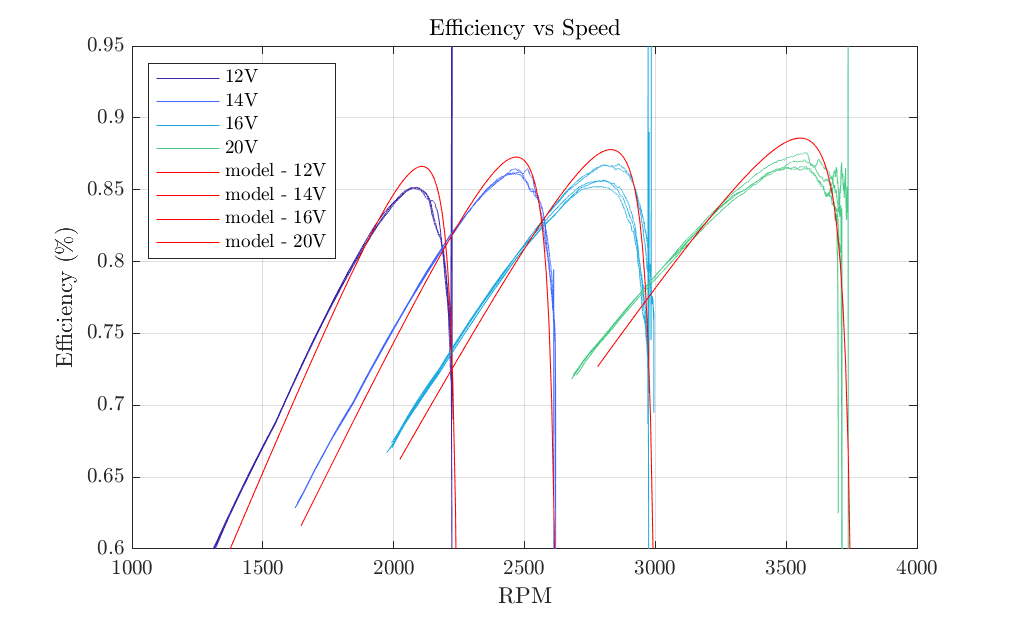
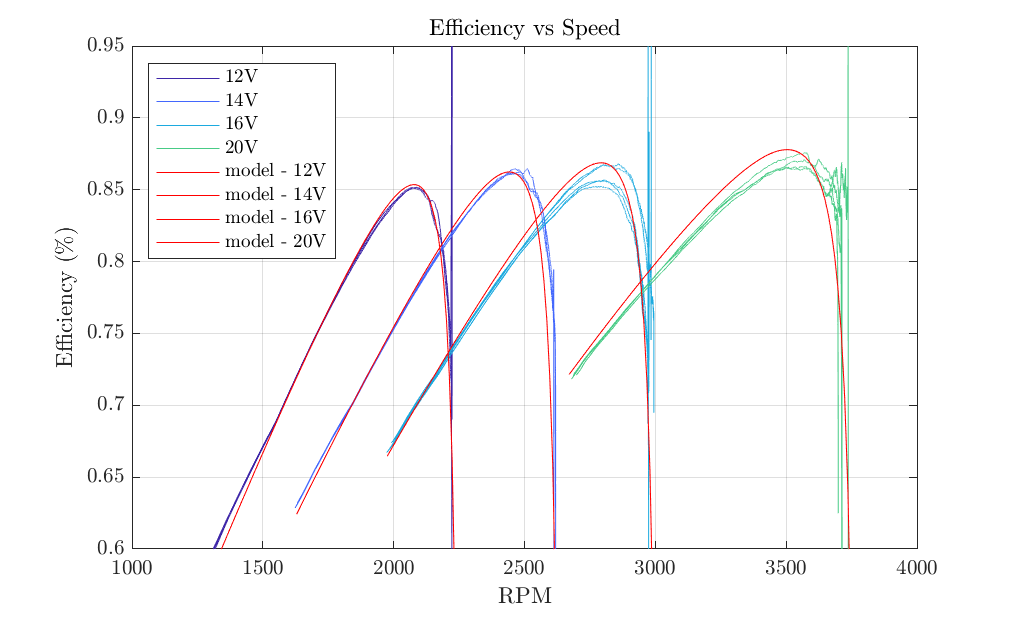
update

diff --git a/DynoData/Koford/2019_jun2/motorModel.m b/DynoData/Koford/2019_jun2/motorModel.m
@@ -1,15 +1,26 @@
 %% process Model
 
 if (exist('p1','var'))
+    delete(p0);
     delete(p1);
     delete(p2);
     delete(p3);
+    delete(p4);
+    delete(p5);
+    delete(p6);
 end
 load ../noLoad/nonElectricalLosses
-% load ../spindown/chain+mag_sketchy
+load ../spindown/chain+mag_sketchy
 % mystery = mean(allMys(allR2>.35,:),1);
-modelKv = mean(allKv);
-modelRs = mean(allRs)*1.1;
+modelKv = mean(allKv) * 1.01 / 1.01;
+modelZs = mean(allRs)*1.1;
+modelLs = 0.160e-3 * 1.2;
+% modelRs = 0.186 * 1.45;
+% modelLs = 0;
+modelLs = 0.160e-3 * 1.75;
+modelRs = mean(allRs) * 0.9;
+modelRs = 0.186 * 1.34;
+% modelRs = 0.186*1.5;
 modelKt = 1./(modelKv*2*pi/60);
 paramSets = table();
 for i = 1:length(allParameters)
@@ -17,6 +28,7 @@ for i = 1:length(allParameters)
     paramSets.Rs(i) = mean(allRs(allChar==i)) * 1.15;
     paramSets.Mys(i,:) = mean(allMys(allChar==i,:),1);
     paramSets.Kt(i) = 1./(paramSets.Kv(i)*2*pi/60);
+    paramSets.VofI(i,:) = mean(allVofI(allChar==i,:),1);
     
 %     fields = fieldnames(allParameters(i));
 %     vals = cellfun(@(f) getfield(allParameters(i),f),fields,'UniformOutput',false);
@@ -25,22 +37,43 @@ for i = 1:length(allParameters)
         paramSets.(field)(i,:) = getfield(allParameters(i),field);
     end
     
-    V = str2num(paramSets.voltage(i,:));
+%     V = str2num(paramSets.voltage(i,:));
     IVals = linspace(0,18,99)';
+    V = polyval(paramSets.VofI(i,:),IVals);
 %     modelRPM = (V - IVals*paramSets.Rs(i)) * paramSets.Kv(i);
 %     modelTorque = IVals * paramSets.Kt(i) * 1;
-%     modelLosses = [IVals.^2*paramSets.Rs(i), polyval(PvsERPM,modelRPM*2)];
-    modelRPM = (V - IVals*modelRs) * modelKv;
-    modelTorque = IVals * modelKt * 1;
-    modelLosses = [IVals.^2*modelRs, polyval(PvsERPM,modelRPM*2)];
+%     modelLosses = [IVals.^2*paramSets.Rs(i), polyval(PvsERPM,modelRPM*2)]; 
+    modelRPM = (V - IVals*modelZs) * modelKv;   
+    modelRsTmp = sqrt(modelRs.^2 + (modelLs*modelRPM*2 / 60 * 2 * pi).^2);
+    modelRPM = (V - IVals.*modelRsTmp) * modelKv;
+    modelRsTmp = sqrt(modelRs.^2 + (modelLs*modelRPM*2 / 60 * 2 * pi).^2);
+    modelRPM = (V - IVals.*modelRsTmp) * modelKv;
+    
+    modelTorque = IVals * modelKt;
+    modelLosses = [IVals.^2.*modelRs, ...           % I2R
+                   polyval(PvsERPM,modelRPM*2), ... % nonelectrical
+                   0.3*ones(size(modelRPM)), ...    % controller
+                   6e-3*modelTorque.^2.*modelRPM, ...% chain
+                   0.3*ones(size(modelRPM)) ...     % chain
+                   ];               
+%     modelLosses = [IVals.^2.*modelRsTmp, polyval(PvsERPM,modelRPM*2), -polyval(CHAIN_LOSSES_POWER_OF_FLYWHEEL_RPM,modelRPM*14/72/2)];
 %     modelLosses = [IVals.^2*paramSets.Rs(i), polyval(paramSets.Mys(i,:),modelRPM)];
-    modelEff = 1 - sum(modelLosses,2) ./ (IVals * V);
+    IVals = IVals + .03; % controller
+    modelEff = 1 - sum(modelLosses,2) ./ (IVals .* V);
     
 %     linecolor = allPlotColors{mod(i-1,length(allPlotColors))+1};
     linecolor = 'r';
     
+    nominalVoltage = str2num(paramSets.voltage(i,:));
+    
     figure(1);
-    plot(modelRPM, modelEff, '-', 'Color',linecolor,'DisplayName', ['model - ',num2str(V),'V']); hold on;
+    p0(i)=plot(modelRPM, modelEff, '-', 'Color',linecolor,'DisplayName', ['model - ',num2str(nominalVoltage),'V']); hold on;
+    
+    figure(3);
+    subplot(2,1,1);
+    p5(i)=plot(modelRPM, V,'-','Color',linecolor','DisplayName', ['model - ',num2str(nominalVoltage),'V']);
+    subplot(2,1,2);
+    p6(i)=plot(modelRPM, IVals,'-','Color',linecolor','DisplayName', ['model - ',num2str(nominalVoltage),'V']);
     
     figure(5);
     yyaxis left
@@ -51,7 +84,7 @@ for i = 1:length(allParameters)
     legendShow = 'off';
     
     figure(6);
-    plot(IVals, sum(modelLosses,2), '-', 'Color',linecolor,'DisplayName', ['model - ',num2str(V),'V']); hold on;
+    p4(i)=plot(IVals, sum(modelLosses,2), '-', 'Color',linecolor,'DisplayName', ['model - ',num2str(nominalVoltage),'V']); hold on;
 end
 paramSets.Kv(length(allParameters)+1) = modelKv;
 paramSets.Rs(length(allParameters)+1) = modelRs;

diff --git a/DynoData/Koford/2019_jun2/analyzeAll.m b/DynoData/Koford/2019_jun2/analyzeAll.m
@@ -60,6 +60,7 @@ allRs = [];
 allKv = [];
 allMys = [];
 allR2 = [];
+allVofI = [];
 allChar = [];
 for i = 1:numel(filesStruct)
     filename = replace(filesStruct(i).name,',','.');
@@ -76,11 +77,12 @@ for i = 1:numel(filesStruct)
     linecolor = allPlotColors(find(ismemberstruct(allParameters,stuff)),:);
     filePath = strcat(filesStruct(i).folder, '/', filesStruct(i).name);
     
-    [Rs, Kv, mys, R2] = analyzeSingle(filePath, linecolor, true);
+    [Rs, Kv, mys, R2, VofI] = analyzeSingle(filePath, linecolor, true);
     allRs = [allRs; Rs];
     allKv = [allKv; Kv];
     allMys = [allMys; mys];
     allR2 = [allR2; R2];
+    allVofI = [allVofI; VofI];
     allChar = [allChar; find(ismemberstruct(allParameters,stuff))];
 end
 
@@ -117,6 +119,7 @@ subplot(2,1,1);
 legend(gca,'show');
 ylabel('Voltage'); title('Voltage and Current vs Speed (DEV Controller)');
 ylim([0,20]);
+grid on;
 subplot(2,1,2);
 legend show
 xlabel('RPM'); ylabel('Current');

diff --git a/DynoData/Koford/2019_jun2/analyzeSingle.m b/DynoData/Koford/2019_jun2/analyzeSingle.m
@@ -1,4 +1,4 @@
-function [Rs, Kv, mysteryLosses, R2] = analyzeSingle(filePath, linecolor, toPlot)
+function [Rs, Kv, mysteryLosses, R2, VofI] = analyzeSingle(filePath, linecolor, toPlot)
 
     global PARASITIC_LOSSES_ACC_OF_FLYWHEEL_RPS PARASITIC_LOSSES_POWER_OF_FLYWHEEL_RPM
     global ROT_INERTIA
@@ -82,6 +82,8 @@ function [Rs, Kv, mysteryLosses, R2] = analyzeSingle(filePath, linecolor, toPlot
     y = smooth(y,100);
     R2 = 1 - ...
         sum((polyval(mysteryLosses,rpm_motor(toFit)) - y).^2) / sum((y-mean(y)).^2);
+    
+    VofI = polyfit(current(currCutoff:end),voltage(currCutoff:end),1);
     
     fprintf('%s:\n',filename);
     fprintf('\tI = '); fprintf('(%.3f)RPM + (%.3f)V\t', CoRV);

diff --git a/DynoData/Koford/noLoad/analyze.m b/DynoData/Koford/noLoad/analyze.m
@@ -36,14 +36,15 @@ end
 rpm = smooth(rpm, 21);
 rpm = rpm*48; % because forgot to change sprocket ticks to 1
 
-power = smooth(power,51);
+current = power ./ voltage;
+power = smooth(power,51) - current.^2*0.24924;
 
 PvsERPM = polyfit(rpm,power./rpm,2); PvsERPM(end+1) = 0;
 % PvsERPM = polyfit(rpm,power,3);
 R2 = 1 - sum((power - polyval(PvsERPM,rpm)).^2) ./ sum((power-mean(power)).^2)
 ERPMvals = linspace(0,max(rpm)*1.1);
 
-save('nonElectricalLosses','PvsERPM');
+% save('nonElectricalLosses','PvsERPM');
 
 %% plot
 set(groot, 'defaultAxesTickLabelInterpreter','latex');
